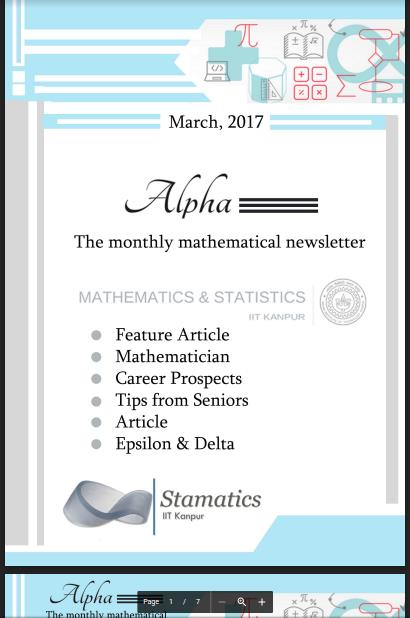
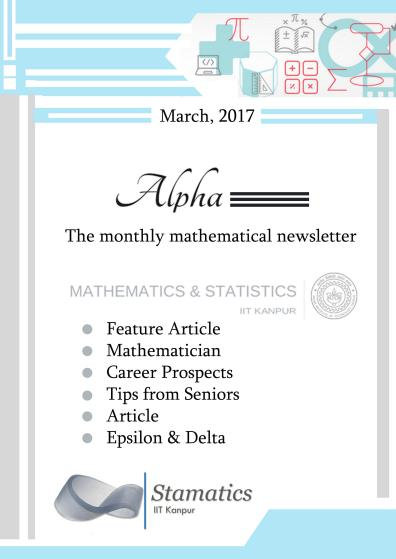
Updated activities

diff --git a/activities.html b/activities.html
@@ -113,6 +113,27 @@
         <div class="col-sm-1"></div>
 
       </div>
+      <br><br>
+      <div class="row">
+        <div class="col-sm-4"></div>
+        <div class="col-sm-4 wow fadeInUp" data-wow-duration="1000ms" data-wow-delay="800ms">
+          <div class="post-thumb">
+            <a href="https://drive.google.com/file/d/0BwZ3DCgtGfU7aTA0N1N4M2w0UzQ/view">
+            <img class="img-responsive" src="images/alpha.jpg" alt="">
+            </a>
+          </div>
+          <div class="entry-header">
+            <h3>Alpha Newsletter</h3>
+            <span class="date">August 23, 2017</span>
+            <span class="cetagory">by <strong>Mathemania</strong></span>
+          </div>
+
+          <div class="entry-content">
+            <p>A new initiative for mathematics enthusiasts. Stamatics presents the first edition of Alpha, a newsletter of Mathematics and Statistics Department.</p>
+          </div>
+        </div>
+        <div class="col-sm-4"></div>
+      </div>
     </div>
   </div>
 </section><!--/#blog-->

diff --git a/index.html b/index.html
@@ -90,7 +90,8 @@
     <div class="container-fluid">
       <div class="row text-center" style="margin-top: -6em">
         <br>
-        <h1 style="color: white; margin-bottom: 1em">Mathemania | Previous Year Papers</h1>
+        <h1 style="color: white;">Mathemania</h1>
+        <h3 style="color: white; margin-bottom: 1em; font-size: 1.5em">Previous Year Papers and Solutions</h3>
         </h4>
         <br>
         <div class="row">
